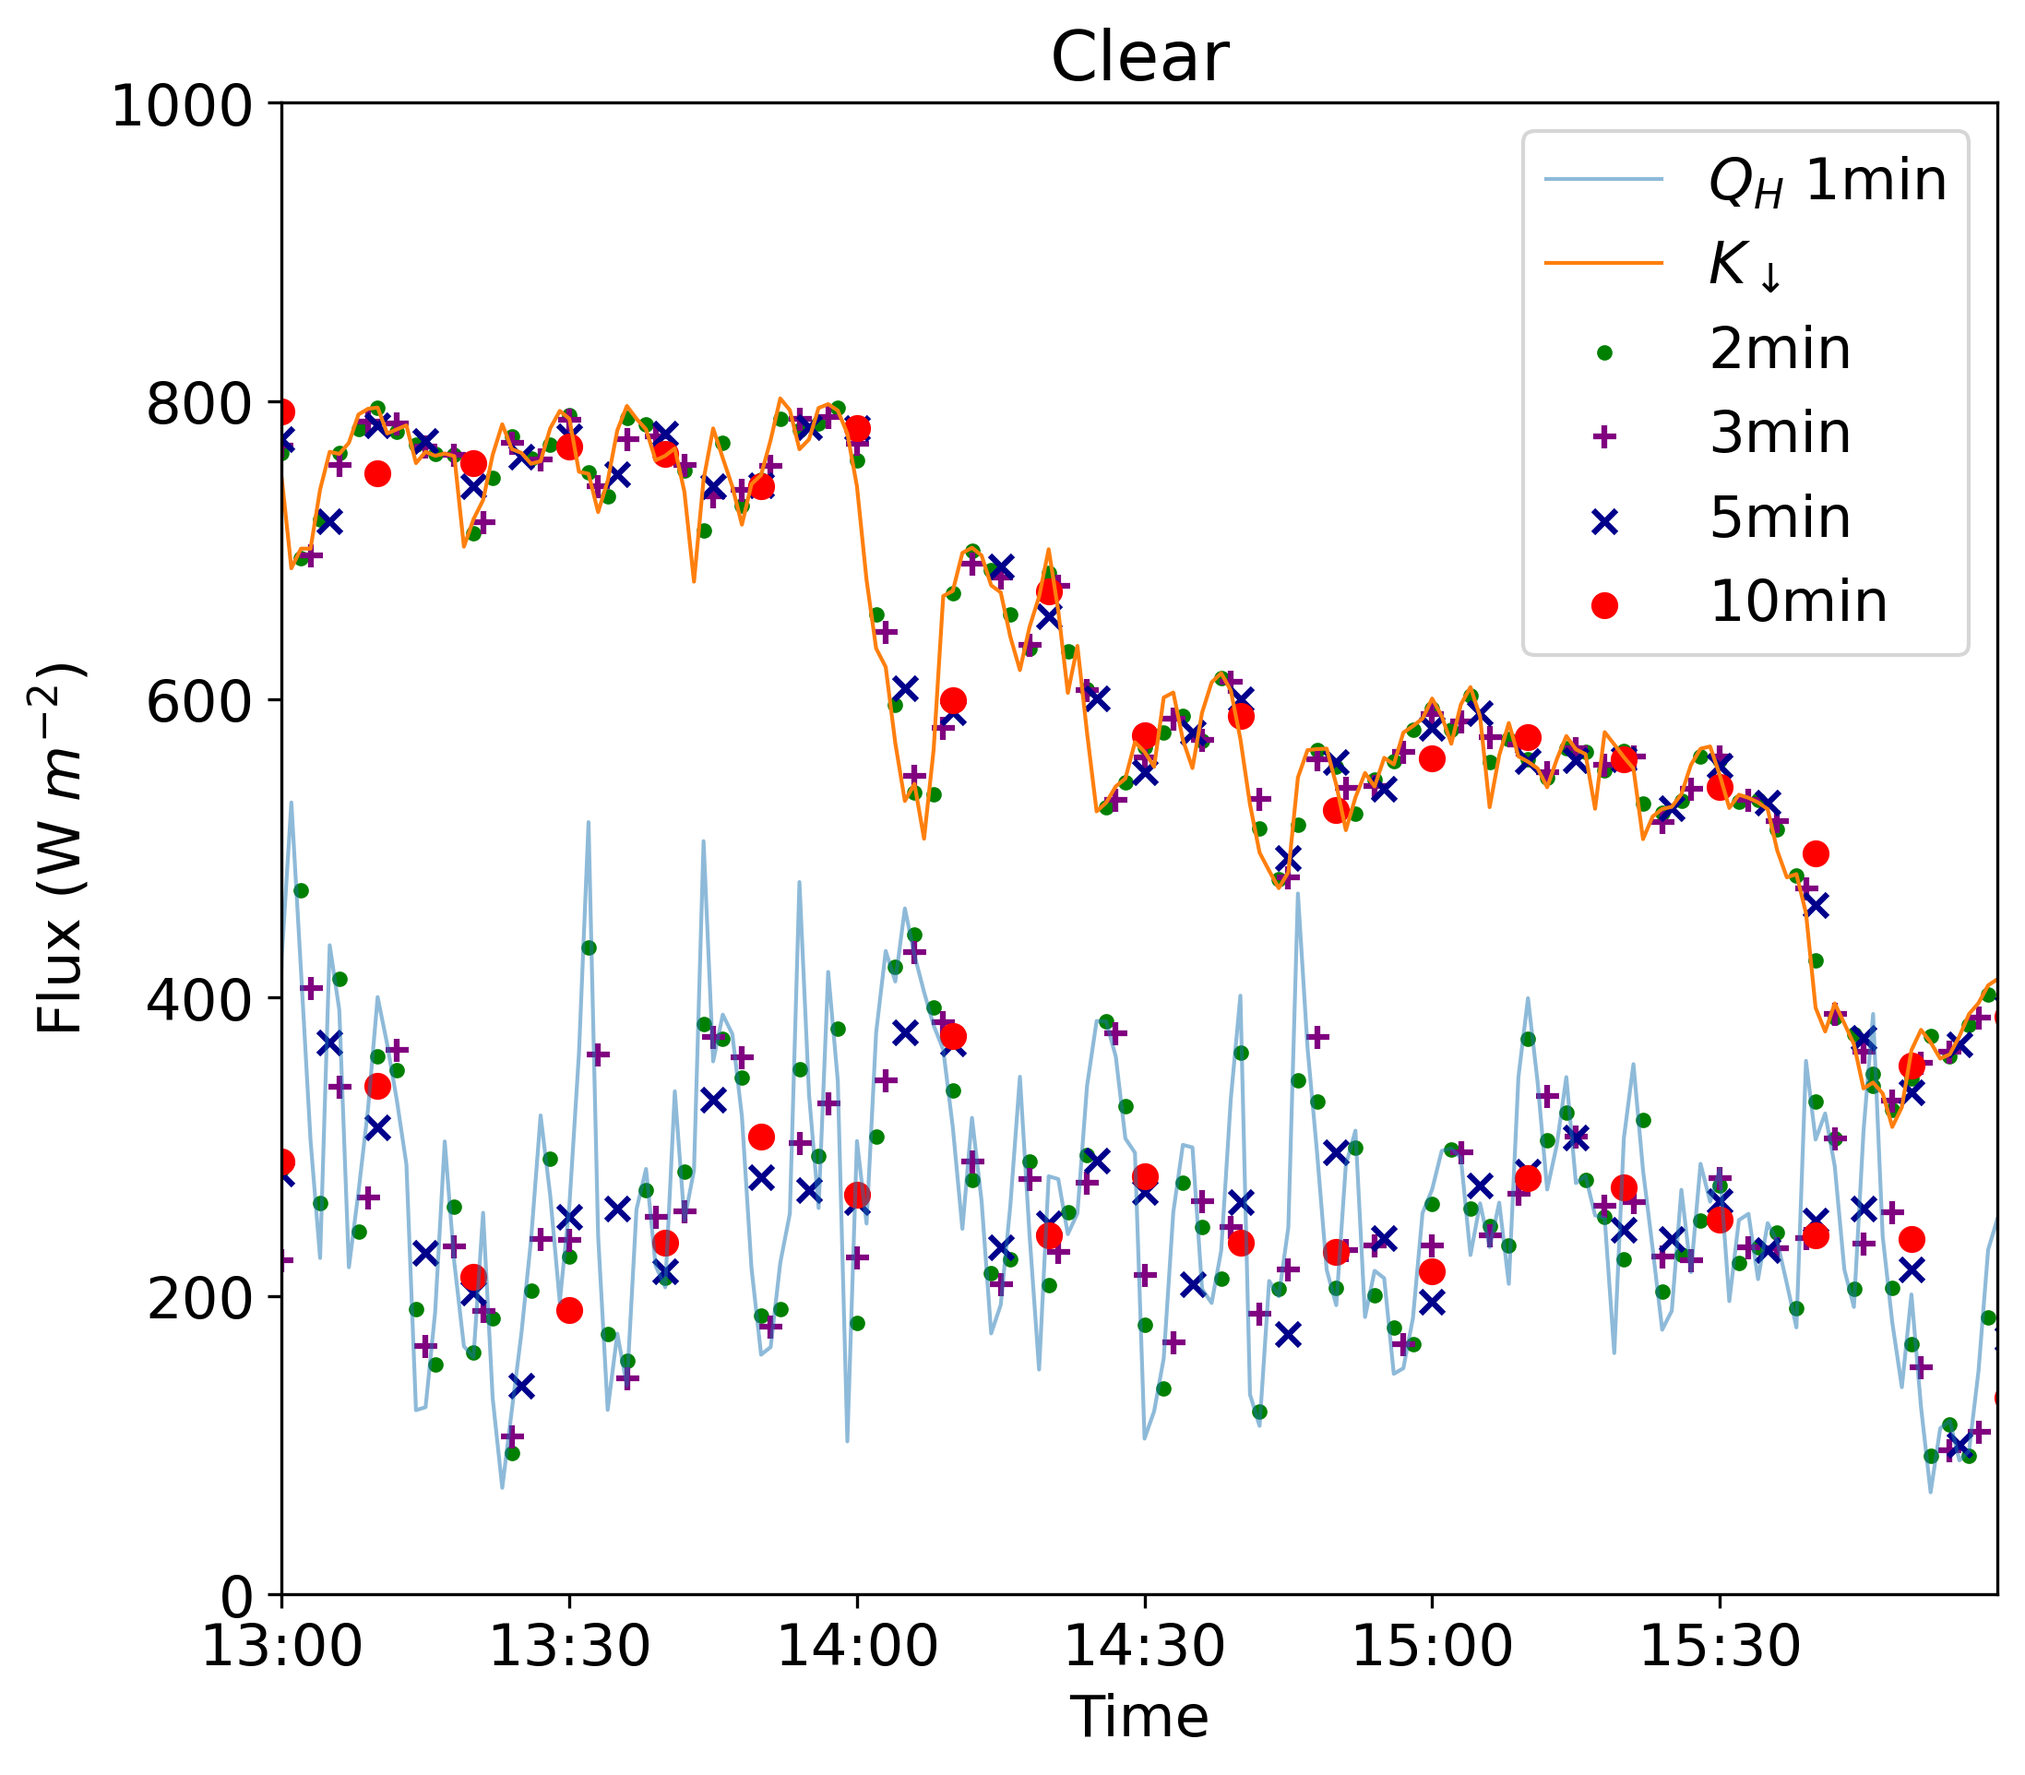
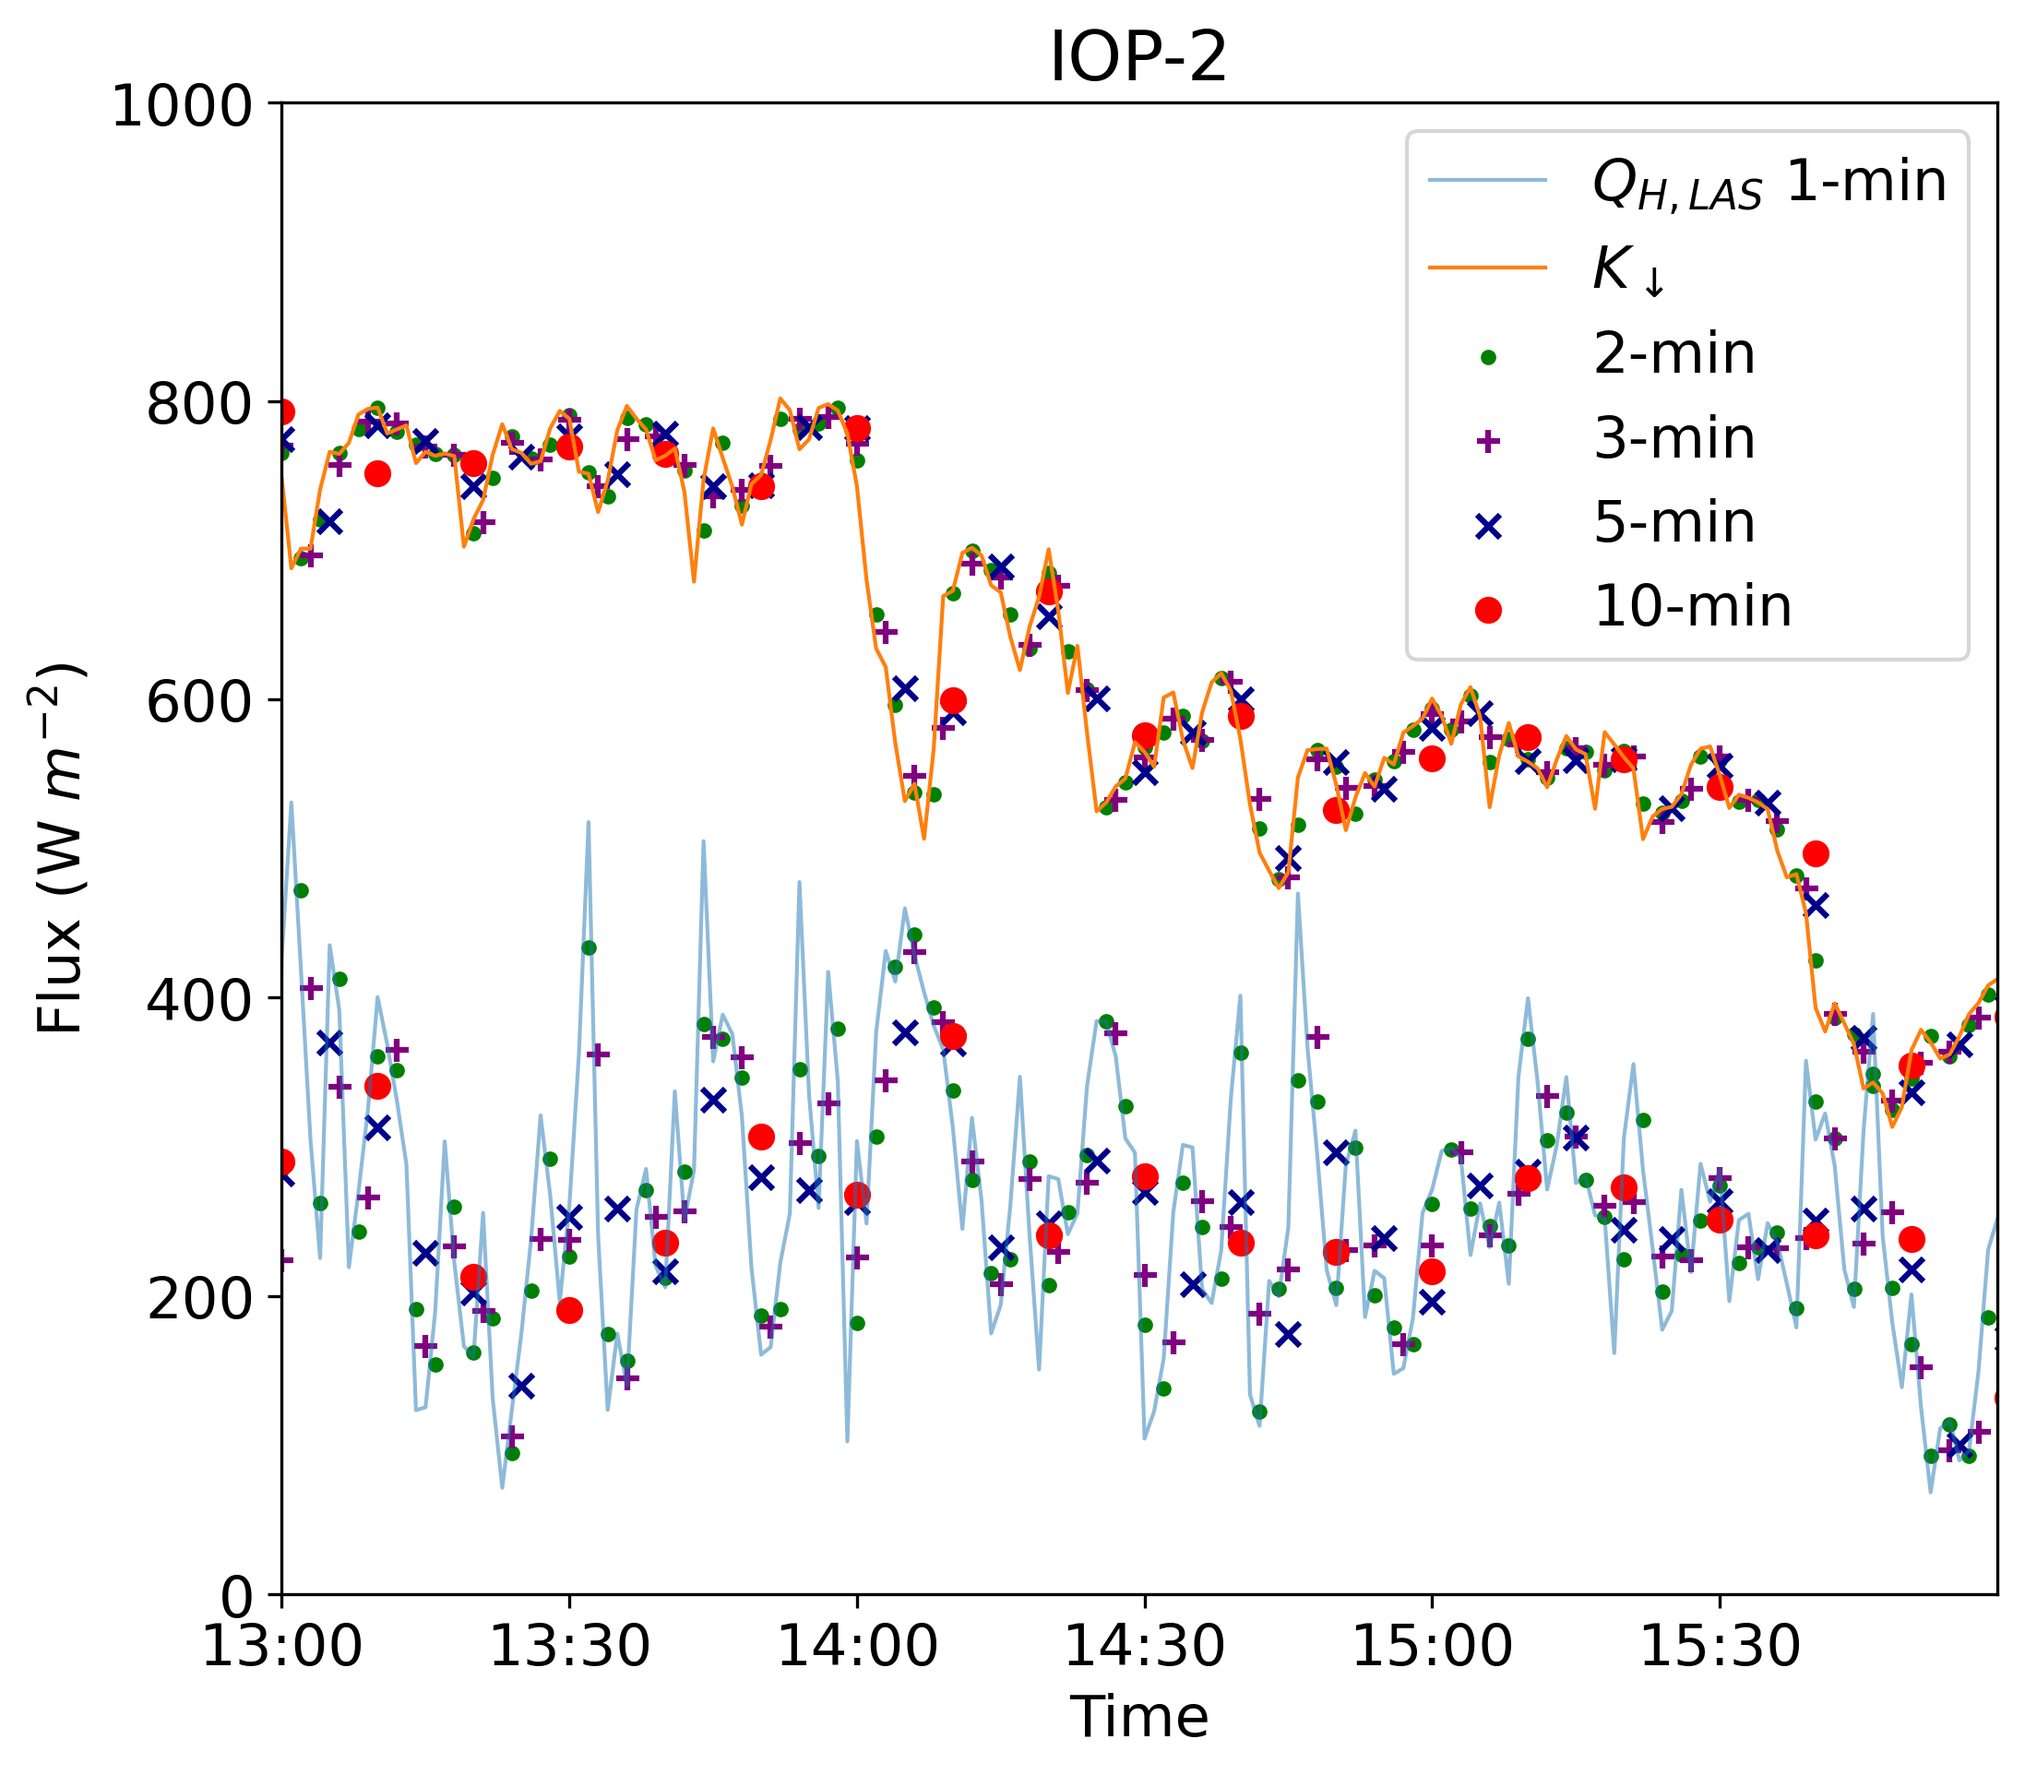
update names and notation

diff --git a/scint_plots/line_time_series/line_time_series_funs.py b/scint_plots/line_time_series/line_time_series_funs.py
@@ -185,16 +185,16 @@ def times_series_line_QH_KDOWN_REVIEW_EXAMPLE(DOY_dict, pair_id, model_df=False)
     fig = plt.figure(figsize=(8, 7))
     ax = plt.subplot(1, 1, 1)
 
-    ax.plot(DOY_dict[2016126]['1']['QH'], label='$Q_{H}$ 1min', linewidth=1, alpha=0.5)
+    ax.plot(DOY_dict[2016126]['1']['QH'], label='$Q_{H,LAS}$ 1-min', linewidth=1, alpha=0.5)
     ax.plot(DOY_dict[2016126]['1']['kdown'], label='$K_{\downarrow}$', linewidth=1)
 
-    ax.scatter(DOY_dict[2016126]['2'].index, DOY_dict[2016126]['2']['QH'], label='2min', marker='.', color='green')
+    ax.scatter(DOY_dict[2016126]['2'].index, DOY_dict[2016126]['2']['QH'], label='2-min', marker='.', color='green')
 
-    ax.scatter(DOY_dict[2016126]['3'].index, DOY_dict[2016126]['3']['QH'], label='3min', marker='+', color='purple')
+    ax.scatter(DOY_dict[2016126]['3'].index, DOY_dict[2016126]['3']['QH'], label='3-min', marker='+', color='purple')
 
-    ax.scatter(DOY_dict[2016126]['5'].index, DOY_dict[2016126]['5']['QH'], label='5min', marker='x', color='darkblue')
+    ax.scatter(DOY_dict[2016126]['5'].index, DOY_dict[2016126]['5']['QH'], label='5-min', marker='x', color='darkblue')
 
-    ax.scatter(DOY_dict[2016126]['10'].index, DOY_dict[2016126]['10']['QH'], label='10min', marker='o', color='red')
+    ax.scatter(DOY_dict[2016126]['10'].index, DOY_dict[2016126]['10']['QH'], label='10-min', marker='o', color='red')
 
     ax.scatter(DOY_dict[2016126]['2'].index, DOY_dict[2016126]['2']['kdown'], marker='.', color='green')
 
@@ -225,7 +225,7 @@ def times_series_line_QH_KDOWN_REVIEW_EXAMPLE(DOY_dict, pair_id, model_df=False)
     # ax.xaxis.set_major_formatter(DateFormatter('%H'))
     ax.xaxis.set_major_formatter(DateFormatter('%H:%M'))
 
-    plt.title('Clear')
+    plt.title('IOP-2')
     ax.set_ylim(0, 1000)
 
     # save plot
